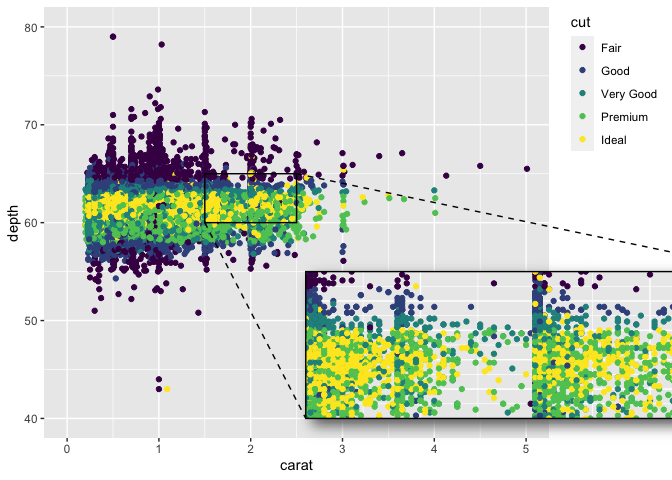
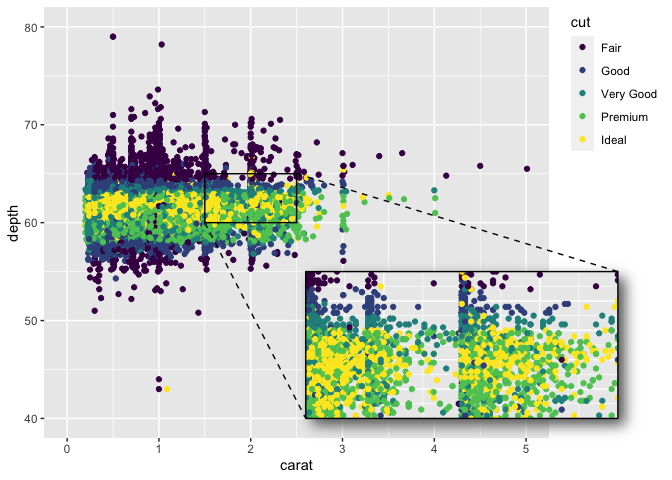
tweak readme

Changed region(s): [[0.4375, 0.5625, 1.0, 0.9062], [0.4688, 0.375, 0.5625, 0.4062], [0.5938, 0.4062, 0.625, 0.4375]]

diff --git a/README.md b/README.md
@@ -84,7 +84,7 @@ ggp_noclip <- ggp +
 
 ggmagnify(ggp_noclip,
           xlim = c(1.5, 2.5), ylim = c(60, 65),
-          inset_xlim = c(2.6, 7.6), inset_ylim = c(40, 55),
+          inset_xlim = c(2.6, 6), inset_ylim = c(40, 55),
           shadow = TRUE)
 #> Coordinate system already present. Adding new coordinate system, which will
 #> replace the existing one.
